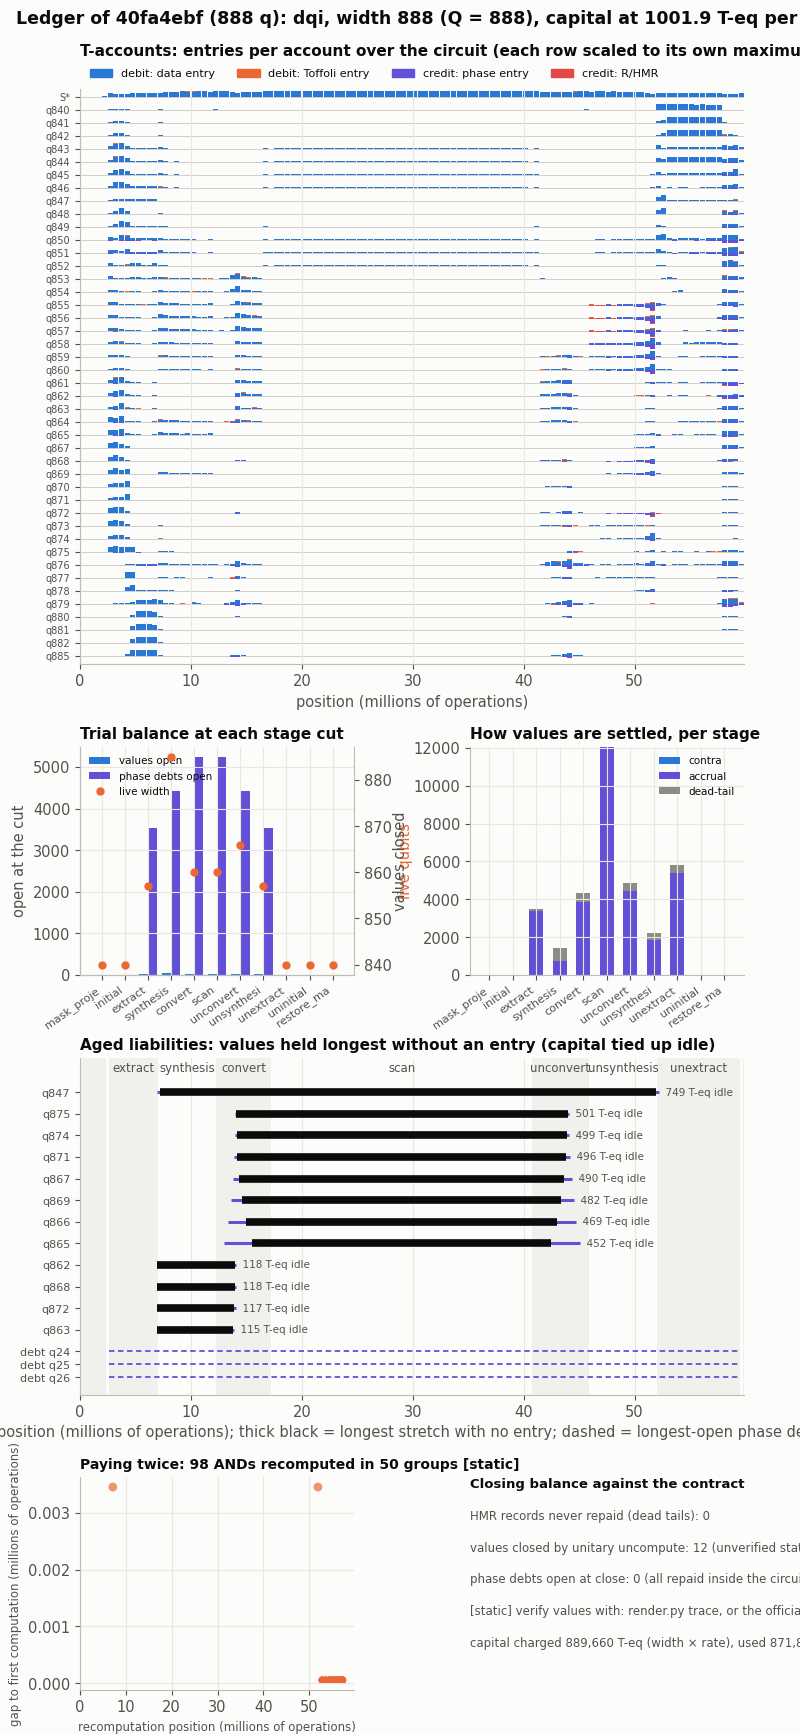
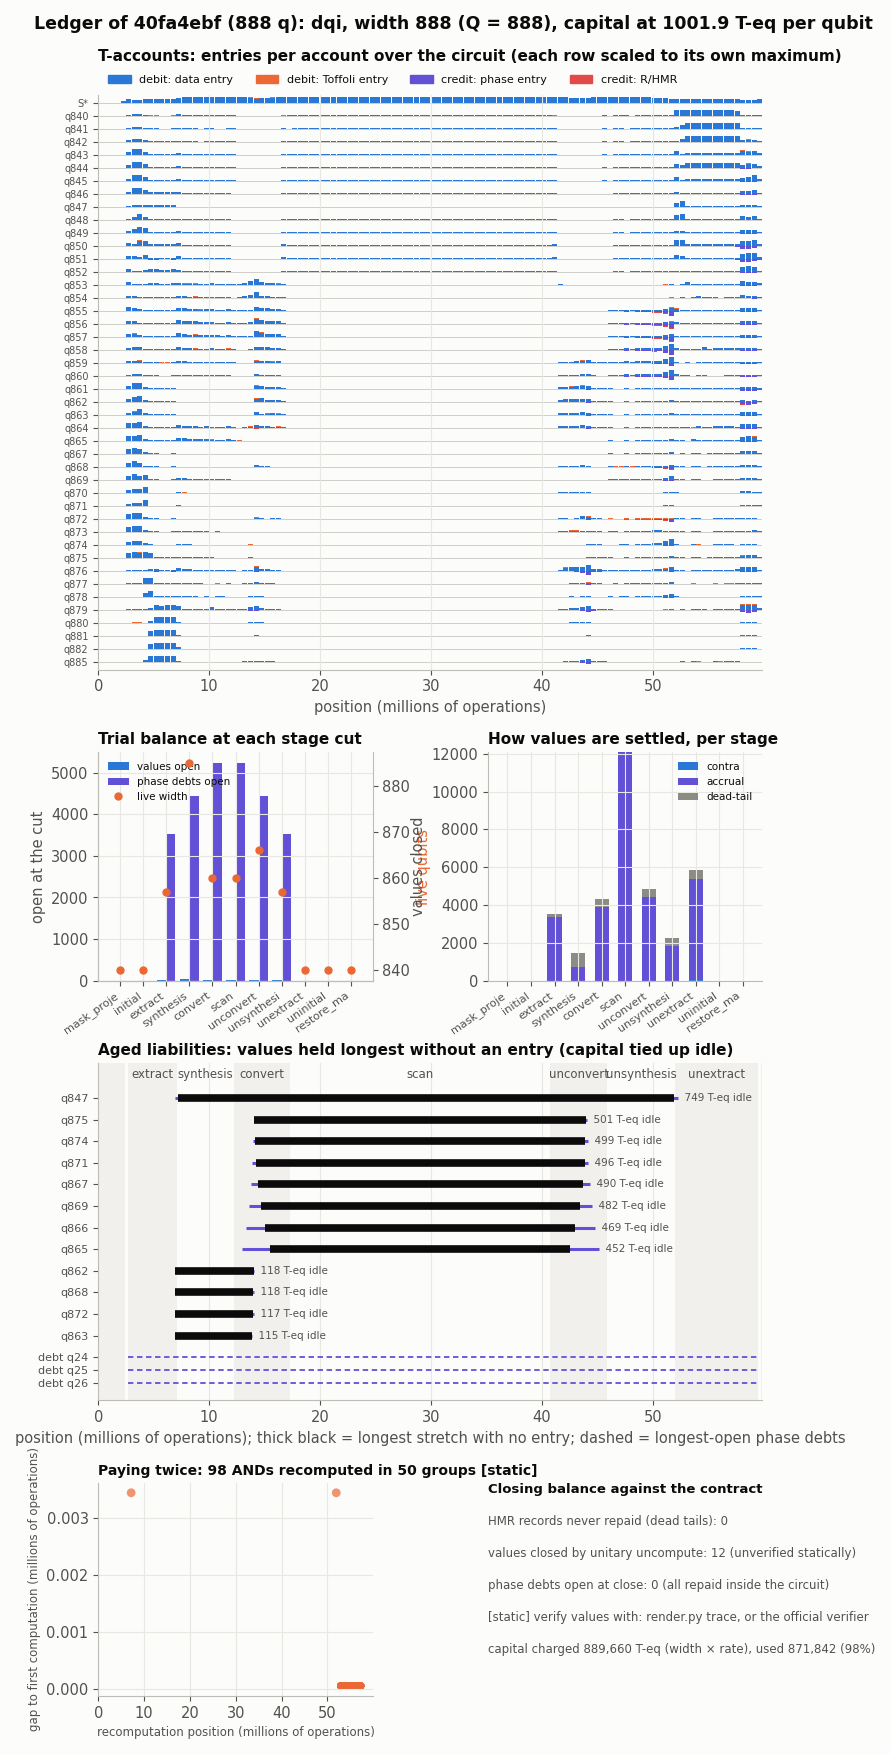
render.py ledger: fit the PNG to its labels
The ledger figure cropped its own right-edge labels (row and value labels drawn past the axes were cut at the
canvas edge). The figure is now fitted to its labels, so nothing is clipped. A new test fails on the old code; the
JSON outputs are unchanged. RENDER.md notes the change and the two affected example PNGs are refreshed.

This work was done with AI assistance (Claude, by Anthropic) under my direction.

Changed region(s): [[0.0, 0.0, 1.0, 1.0]]

diff --git a/tools/circuit-viewer/render.py b/tools/circuit-viewer/render.py
@@ -1067,6 +1067,7 @@ SURF, INK, INK2, MUTED, GRID = '#fcfcfb', '#0b0b0b', '#52514e', '#8c8b86', '#e8e
 BLUE, ORANGE, AQUA, VIOLET, RED, YELLOW = '#2a78d6', '#eb6834', '#1baf7a', '#6250d6', '#e34948', '#eda100'
 BAND, BAND_ON = '#f1f0ec', '#dbe8f8'
 DPI = 100
+FIT_PAD_IN = 0.15  # margin round a fitted PNG (save_png(fit=True)), inches
 _PLT = None
 
 
@@ -1112,8 +1113,16 @@ def fig_image(fig):
     return pil_().open(buf).convert('RGB')
 
 
-def save_png(fig, path):
-    fig.savefig(path, dpi=DPI, metadata={'Software': None})
+def save_png(fig, path, fit=False):
+    # fit=True grows (or trims) the canvas to every artist plus a fixed margin, so labels drawn with clip_on=False
+    # or titles wider than --px are not cropped; the PNG is then about --px wide rather than exactly --px. Every
+    # visible text is passed explicitly: matplotlib's tight box otherwise ignores the width of a long axis label.
+    kw = {}
+    if fit:
+        from matplotlib.text import Text
+        texts = [t for t in fig.findobj(Text) if t.get_visible() and t.get_text()]
+        kw = dict(bbox_inches='tight', pad_inches=FIT_PAD_IN, bbox_extra_artists=texts)
+    fig.savefig(path, dpi=DPI, metadata={'Software': None}, **kw)
     plt_().close(fig)
     return path
 
@@ -3260,7 +3269,7 @@ def draw_ledger_png(A, lab, args, base):
     for k, (txt, bold) in enumerate(lines):
         ax.text(0, 1 - k * 0.15, txt, transform=ax.transAxes, fontsize=9.5 if bold else 8.5,
                 fontweight='bold' if bold else 'normal', color=INK if bold else INK2, va='top')
-    return save_png(fig, str(base) + '.png')
+    return save_png(fig, str(base) + '.png', fit=True)
 
 
 def draw_reconcile_png(keep, labs, rows, facts, args, base):

diff --git a/tests/test_circuit_render.py b/tests/test_circuit_render.py
@@ -455,6 +455,23 @@ def test_cli_ledger_deterministic(tmp_path):
     assert outs[0] == outs[1]
 
 
+@needs_mpl
+def test_ledger_png_labels_not_cropped(tmp_path):
+    """The ledger PNG draws labels past its axes (idle-capital notes, a long title); none may touch the image edge:
+    a margin of FIT_PAD_IN of plain background must surround everything drawn."""
+    a = str(random_circuit(tmp_path / 'a.kmb', 44))
+    label = 'a deliberately long display label that runs the title past the right edge'
+    code, text = run_cli(['ledger', a, '--out', str(tmp_path / 'o'), '--px', '400', '--no-cache', '--labels', label])
+    assert code == 0, text
+    png = [f['path'] for f in json.loads(text)['files'] if f['kind'] == 'png'][0]
+    im = np.asarray(R.pil_().open(png).convert('RGB')).astype(int)
+    assert im.shape[1] > 400  # the title alone is wider than --px, so the canvas grew to hold it
+    surf = np.array([int(R.SURF[k:k + 2], 16) for k in (1, 3, 5)])
+    m = int(R.FIT_PAD_IN * R.DPI) - 2
+    for edge in (im[:m], im[-m:], im[:, :m], im[:, -m:]):
+        assert np.abs(edge - surf).max() <= 2
+
+
 # ------------------------------------------------------------------------------------------------ viewer snapshot
 # The viewer's "Copy snapshot JSON" (tools/circuit-viewer/snapshot.js on tracer.js, run here under Node) and
 # `render.py snapshot` must give the same object at the same stop point. Static parts (width profile, values,

diff --git a/tools/circuit-viewer/RENDER.md b/tools/circuit-viewer/RENDER.md
@@ -162,6 +162,9 @@ What it found on known circuits (the gate in the design card; 4 of 5 reproduced 
   carried from `extract` to `unextract`, but it cannot price the recomputation behind them. That needs the source
   map.
 
+The ledger PNG is fitted to its contents with a small margin, so its labels and titles are never cropped; it is
+therefore about `--px` wide (880 px at `--px 800` for 9a8627c81283), not exactly `--px`.
+
 Cost (Apple M2 Pro): invsqrt about 10 s, of which the exact run is about 5 s (`--no-exact` skips it; the T-account
 panel is most of the rest). DQI
 (60 M ops) about 18 s and a 3.2 GB peak footprint; `--compare` of two DQI circuits about 25 s, one circuit at a
